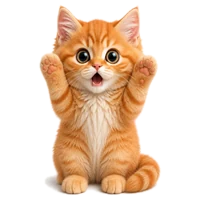
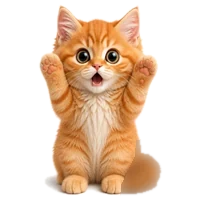
Piano: a living Tempo Cat and a stage-paced curtain
- Each kitten image is split into body and tail layers, so the tail sways, flicks, wags, puffs and lashes by mood
- Between notes it breathes, blinks (sometimes twice), and flicks its tail, tilts its head, glances or stretches
- A tap boops it (startled, tail puffed, Mew?), a stroke or long press pats it (eyes shut, purr, hearts); a right note still waves a paw
- Touching the cat keeps it awake
- Curtain gathers over 2.4 s with a soft settle; the loader shows until its line fills once
- New browser check: tap, stroke and blinks

Changed region(s): [[0.6, 0.69, 0.81, 0.99]]

diff --git a/src/components/Coach.tsx b/src/components/Coach.tsx
@@ -1,35 +1,55 @@
-import { useEffect, useRef, useState } from 'react';
-import type { CSSProperties } from 'react';
+import { useEffect, useId, useRef, useState } from 'react';
+import type { CSSProperties, PointerEvent as ReactPointerEvent } from 'react';
 import type { Mood } from '../piano/arranger';
 
-// The Learn coach "Tempo Cat": a cute ginger kitten (drawn after a reference photo the user chose: a wide fluffy
-// head, huge dark glossy eyes, a tiny pink nose, big pink ears) that is also a metronome, after the cat-shaped metronomes
-// teachers keep on the piano. It sits with a big round head (chibi proportions), and wears the metronome on its
-// chest: a white tempo scale whose needle ticks at your practice tempo, while its tail swings in time like a
-// pendulum, because keeping time is the coach's job. Moods: it swings along while waiting, waves a paw on a right
-// note, throws both paws up with the needle stopped when astonished, droops its ears and tail when upset, and
-// flattens its ears, flushes and shakes when cross.
-// The kitten is a set of generated images (Canva AI, made for this page): one per mood, the same kitten in each.
-// Looks without their own image borrow the nearest one (purring uses the happy face with its eyes closed; sleepy and
-// asleep use the calm one, dimmed; ashamed uses the upset one; grumpy the cross one).
-// The kitten's own states on top of the coach's moods: purring when petted, grumpy when poked too much, yawning
-// after a while with nothing played, asleep after longer, and startled awake by the next note.
-type Look = Mood | 'purr' | 'grumpy' | 'sleepy' | 'asleep';
+// The Learn coach "Tempo Cat": a ginger kitten that is also a metronome, after the cat-shaped metronomes teachers keep
+// on the piano. A thin needle on its chest ticks at your practice tempo.
+// The kitten is a set of generated images (Canva AI, made for this page): one per mood, the same kitten in each. Each
+// image is split in two layers, the body and the tail (with blurred fur under the tail), so the tail can move.
+// It behaves like a real cat between notes: it breathes, blinks every few seconds, and now and then flicks its tail,
+// tilts its head, glances to the side or stretches up. Looks without their own image borrow the nearest one.
+// What it does when you touch it, each different from its reaction to your playing:
+//   a tap (a boop on the nose): it startles, eyes wide, tail puffed up ("Mew?");
+//   a pat (stroke across it, or press and hold): it shuts its eyes and purrs, hearts float up, tail sways slowly;
+//   four taps within two seconds: grumpy.
+// A right note: it waves a paw, smiling. Then yawning after a while with nothing played, asleep after longer.
+type Look = Mood | 'purr' | 'boop' | 'grumpy' | 'sleepy' | 'asleep';
+type Habit = 'flick' | 'tilt' | 'glance' | 'stretch';
 const SLEEPY_AFTER = 12000;
 const ASLEEP_AFTER = 25000;
 
-const PHOTO: Record<Look, string> = {
+const PHOTO: Record<Look, keyof typeof TAIL> = {
   idle: 'idle', happy: 'happy', astonished: 'astonished', upset: 'upset', angry: 'angry',
-  purr: 'happy', grumpy: 'angry', sleepy: 'idle', asleep: 'idle', ashamed: 'upset',
+  purr: 'idle', boop: 'astonished', grumpy: 'angry', sleepy: 'idle', asleep: 'idle', ashamed: 'upset',
 };
+// Where each tail layer sits in the 200 x 200 image, and where it joins the body (the point it swings from).
+const TAIL = {
+  idle: { x: 131, y: 140, w: 53, h: 53, px: 133, py: 182 },
+  happy: { x: 132, y: 140, w: 44, h: 52, px: 134, py: 183 },
+  astonished: { x: 121, y: 140, w: 42, h: 56, px: 123, py: 188 },
+  upset: { x: 130, y: 135, w: 46, h: 51, px: 132, py: 178 },
+  angry: { x: 136, y: 140, w: 46, h: 52, px: 138, py: 183 },
+};
+// Eyes the lids can close over (only the faces with open, round eyes).
+const EYES: Partial<Record<keyof typeof TAIL, [number, number][]>> = {
+  idle: [[79.5, 66], [111, 69]],
+  upset: [[75, 67.5], [105, 67]],
+};
+const HABITS: [Habit, number, number][] = [['flick', 0.34, 1000], ['tilt', 0.24, 1700], ['glance', 0.24, 1900], ['stretch', 0.18, 1300]];
+const rand = (low: number, high: number) => low + Math.random() * (high - low);
 
 export default function Coach({ mood: coachMood, text: coachText, tick, tempo }: { mood: Mood; text: string; tick: number; tempo: number }) {
   const [rest, setRest] = useState<'awake' | 'sleepy' | 'asleep'>('awake');
   const [woke, setWoke] = useState(0); // bumps when a note startles it awake
-  const [pet, setPet] = useState<{ look: 'purr' | 'grumpy'; text: string; key: number } | null>(null);
+  const [pet, setPet] = useState<{ look: 'purr' | 'boop' | 'grumpy'; text: string; key: number } | null>(null);
+  const [blink, setBlink] = useState(false);
+  const [habit, setHabit] = useState<Habit | null>(null);
+  const [nudge, setNudge] = useState(0); // bumps on every touch, which also keeps it awake
   const pokes = useRef<number[]>([]);
+  const stroke = useRef<{ x: number; y: number; moved: number; at: number; patted: boolean; hold: number } | null>(null);
   const restRef = useRef(rest);
   restRef.current = rest;
+  const uid = useId().replace(/:/g, '');
   // Every coach message means a note was played: wake up (with a start if it was dozing) and restart the timers.
   useEffect(() => {
     if (restRef.current !== 'awake') setWoke((value) => value + 1);
@@ -40,31 +60,134 @@ export default function Coach({ mood: coachMood, text: coachText, tick, tempo }:
       clearTimeout(sleepy);
       clearTimeout(asleep);
     };
-  }, [tick]);
+  }, [tick, nudge]);
   useEffect(() => {
     if (!pet) return;
-    const done = setTimeout(() => setPet(null), pet.look === 'purr' ? 1800 : 2400);
+    const done = setTimeout(() => setPet(null), pet.look === 'purr' ? 2200 : pet.look === 'boop' ? 1300 : 2400);
     return () => clearTimeout(done);
   }, [pet]);
-  // Tap or click: a purr and hearts; four taps within two seconds make it grumpy. Tapping a sleeping kitten wakes it.
-  const touch = () => {
-    const now = performance.now();
-    pokes.current = [...pokes.current.filter((at) => now - at < 2000), now];
-    if (rest !== 'awake') {
+
+  const mood: Look = pet?.look ?? (rest === 'asleep' ? 'asleep' : rest === 'sleepy' ? 'sleepy' : coachMood);
+  const photo = PHOTO[mood] ?? 'idle';
+  const calm = mood === 'idle' || mood === 'upset' || mood === 'sleepy';
+
+  // Life between notes: a blink every 2.5 to 6 s (sometimes a double blink), and a habit every 2.5 to 5.5 s, only while
+  // the kitten is calm, so it never fights a reaction.
+  useEffect(() => {
+    if (!calm || typeof window === 'undefined' || window.matchMedia?.('(prefers-reduced-motion: reduce)').matches) return;
+    const timers: number[] = [];
+    const later = (ms: number, run: () => void) => timers.push(window.setTimeout(run, ms));
+    const blinkLoop = () => {
+      later(rand(2500, 6000), () => {
+        setBlink(true);
+        later(150, () => setBlink(false));
+        if (Math.random() < 0.25) later(330, () => { setBlink(true); later(140, () => setBlink(false)); });
+        blinkLoop();
+      });
+    };
+    const habitLoop = () => {
+      later(rand(2500, 5500), () => {
+        let pick = Math.random();
+        const [name, , length] = HABITS.find(([, weight]) => (pick -= weight) < 0) ?? HABITS[0];
+        setHabit(name);
+        later(length, () => setHabit(null));
+        habitLoop();
+      });
+    };
+    blinkLoop();
+    if (mood !== 'sleepy') habitLoop();
+    return () => {
+      timers.forEach((timer) => clearTimeout(timer));
+      setBlink(false);
+      setHabit(null);
+    };
+  }, [calm, mood]);
+
+  const wake = () => {
+    setNudge((value) => value + 1);
+    if (restRef.current !== 'awake') {
       setRest('awake');
       setWoke((value) => value + 1);
     }
-    if (pokes.current.length >= 4) setPet({ look: 'grumpy', text: 'Hey! Less poking, more playing.', key: now });
-    else setPet({ look: 'purr', text: ['Purrr…', 'Mrrow! Again?', 'Purr… now play me something.'][pokes.current.length - 1] ?? 'Purrr…', key: now });
   };
-  const mood: Look = pet?.look ?? (rest === 'asleep' ? 'asleep' : rest === 'sleepy' ? 'sleepy' : coachMood);
+  const boop = () => {
+    const now = performance.now();
+    pokes.current = [...pokes.current.filter((at) => now - at < 2000), now];
+    wake();
+    if (pokes.current.length >= 4) setPet({ look: 'grumpy', text: 'Hey! Less poking, more playing.', key: now });
+    else setPet({ look: 'boop', text: ['Mew? That was my nose.', 'Boop! Again?', 'Mrrp! Play me something.'][pokes.current.length - 1] ?? 'Mew?', key: now });
+  };
+  const purr = () => {
+    pokes.current = [];
+    wake();
+    const now = performance.now();
+    // Already purring: keep it going (a new object restarts the timer) and send up fresh hearts at most every 0.7 s.
+    setPet((current) => current?.look === 'purr' ? { ...current, key: now - current.key > 700 ? now : current.key } : { look: 'purr', text: ['Purrr…', 'Purr… right there.', 'Prrr… that is nice.'][Math.floor(Math.random() * 3)], key: now });
+  };
+  // A pat is a stroke of 24 px or more across the kitten, or a press held for 0.45 s. A short tap is a boop.
+  const down = (event: ReactPointerEvent<HTMLButtonElement>) => {
+    event.currentTarget.setPointerCapture?.(event.pointerId);
+    const hold = window.setTimeout(() => {
+      if (stroke.current && !stroke.current.patted) {
+        stroke.current.patted = true;
+        purr();
+      }
+    }, 450);
+    stroke.current = { x: event.clientX, y: event.clientY, moved: 0, at: performance.now(), patted: false, hold };
+  };
+  const move = (event: ReactPointerEvent<HTMLButtonElement>) => {
+    const current = stroke.current;
+    if (!current) return;
+    current.moved += Math.hypot(event.clientX - current.x, event.clientY - current.y);
+    current.x = event.clientX;
+    current.y = event.clientY;
+    if (current.moved >= 24) {
+      current.moved = 0;
+      current.patted = true;
+      purr(); // every stroke keeps it purring
+    }
+  };
+  const up = () => {
+    const current = stroke.current;
+    stroke.current = null;
+    if (!current) return;
+    clearTimeout(current.hold);
+    if (!current.patted) boop();
+  };
+
   const text = pet?.text ?? (rest === 'asleep' ? 'Zzz… play a note to wake me.' : rest === 'sleepy' ? '*yawn* … still there? Play the green key.' : coachText);
+  const tail = TAIL[photo];
+  const eyes = EYES[photo] ?? [];
+  const lids = mood === 'purr' || mood === 'asleep' ? 'shut' : mood === 'sleepy' ? 'heavy' : blink ? 'shut' : 'open';
   return (
     <div className={`pa-coach pa-coach-${mood}`} role="status" aria-live="polite" style={{ '--beat': `${(60 / Math.max(30, tempo)).toFixed(3)}s` } as CSSProperties}>
-      <button type="button" className="pa-coach-pet" onClick={touch} aria-label="Pet the cat">
+      <button
+        type="button"
+        className="pa-coach-pet"
+        onPointerDown={down}
+        onPointerMove={move}
+        onPointerUp={up}
+        onPointerCancel={() => { if (stroke.current) clearTimeout(stroke.current.hold); stroke.current = null; }}
+        onClick={(event) => event.detail === 0 && boop() /* keyboard: Enter or Space boops */}
+        aria-label="Pet the cat (tap to boop, stroke to pat)"
+      >
       <svg key={`w${woke}`} className={`pa-coach-figure co-photo ${woke ? 'co-woke' : ''}`} viewBox="0 0 200 200" aria-hidden="true">
+        <defs>
+          {eyes.map(([cx, cy], index) => <clipPath key={index} id={`${uid}-eye${index}`}><ellipse cx={cx} cy={cy} rx={8.2} ry={7.6} /></clipPath>)}
+          <linearGradient id={`${uid}-lid`} x1="0" y1="0" x2="0" y2="1"><stop offset="0" stopColor="#e3a56a" /><stop offset="1" stopColor="#c98a4f" /></linearGradient>
+        </defs>
+        <g className={`co-life ${habit ? `co-do-${habit}` : ''}`}>
         <g key={tick} className="co-act">
-          <image href={`/coach/${PHOTO[mood] ?? 'idle'}.webp`} x={0} y={0} width={200} height={200} className="co-img" />
+          <image href={`/coach/${photo}.webp`} x={0} y={0} width={200} height={200} className="co-img" />
+          <image href={`/coach/${photo}-tail.webp`} x={tail.x} y={tail.y} width={tail.w} height={tail.h} className="co-tailimg" style={{ transformOrigin: `${tail.px}px ${tail.py}px` }} />
+          {eyes.map(([cx, cy], index) => (
+            <g key={index} className={`co-lids co-lids-${lids}`}>
+              <g clipPath={`url(#${uid}-eye${index})`}>
+                <rect className="co-lid" x={cx - 9} y={cy - 8} width={18} height={16} fill={`url(#${uid}-lid)`} />
+              </g>
+              <path className="co-lash" d={`M${cx - 7} ${cy} Q${cx} ${cy + 3.4} ${cx + 7} ${cy}`} />
+            </g>
+          ))}
           {/* the metronome on its chest: a thin needle and gold weight ticking at the practice tempo */}
           <g className="co-pendulum">
             <line x1={100} y1={158} x2={100} y2={112} stroke="#6b5a4a" strokeWidth={2} strokeLinecap="round" opacity={0.75} />
@@ -85,13 +208,15 @@ export default function Coach({ mood: coachMood, text: coachText, tick, tempo }:
             </g>
           </g>
         </g>
-        {/* Zzz while asleep, hearts while purring */}
+        </g>
+        {/* Zzz while asleep, hearts while purring, a "?" when booped */}
         {mood === 'asleep' && ['Z', 'z', 'z'].map((letter, index) => (
           <text key={index} x={150 + index * 11} y={60 - index * 14} className="co-zzz" style={{ animationDelay: `${index * 0.6}s` } as CSSProperties}>{letter}</text>
         ))}
         {mood === 'purr' && [0, 1, 2].map((index) => (
           <path key={`${pet?.key}-${index}`} d="M0 3 C0 -1 5 -1 5 3 C5 -1 10 -1 10 3 C10 7 5 9 5 11 C5 9 0 7 0 3 Z" className="co-heart" transform={`translate(${50 + index * 45} ${28 + (index % 2) * 10}) scale(1.6)`} style={{ animationDelay: `${index * 0.15}s` } as CSSProperties} />
         ))}
+        {mood === 'boop' && <text key={pet?.key} x={150} y={40} className="co-what">?</text>}
       </svg>
       </button>
       <p className="pa-coach-bubble"><span className="pa-coach-text">{text}</span></p>

diff --git a/src/piano/piano.css b/src/piano/piano.css
@@ -1626,3 +1626,57 @@
 .pa-tear .pa-drape-right { animation: pa-drape-gather-right 1.3s cubic-bezier(0.55, 0, 0.25, 1) 0.05s forwards; }
 @keyframes pa-drape-gather-left { 0% { transform: none; opacity: 1; } 78% { transform: translateX(-42%) scaleX(0.16); opacity: 1; } 100% { transform: translateX(-47%) scaleX(0.06); opacity: 0; } }
 @keyframes pa-drape-gather-right { 0% { transform: scaleX(-1); opacity: 1; } 78% { transform: translateX(42%) scaleX(-0.16); opacity: 1; } 100% { transform: translateX(47%) scaleX(-0.06); opacity: 0; } }
+/* A stage-paced opening: the drapes gather over 2.4 s with a slow start and a soft settle (1.3 s read as rushed), the
+   valance lifts as they reach the sides, and the curtain layer ends at 2.6 s. */
+.pa-tear { animation: pa-tear-done 0s linear 2.6s forwards; }
+.pa-tear .pa-drape-left { animation: pa-drape-gather-left 2.4s cubic-bezier(0.45, 0, 0.2, 1) 0.05s forwards; }
+.pa-tear .pa-drape-right { animation: pa-drape-gather-right 2.4s cubic-bezier(0.45, 0, 0.2, 1) 0.05s forwards; }
+.pa-tear .pa-tear-valance { animation: pa-valance-up 0.6s cubic-bezier(0.4, 0, 0.6, 1) 1.85s forwards; }
+/* Tempo Cat, alive: it breathes, blinks, and now and then flicks its tail, tilts its head, glances aside or stretches.
+   (These rules are unlayered, so each mood's motion is restated here for the photo kitten.) */
+.pa-coach-pet { touch-action: none; user-select: none; -webkit-user-select: none; -webkit-touch-callout: none; }
+.co-photo .co-life { transform-box: view-box; transform-origin: 100px 192px; transition: transform 0.6s ease-in-out; }
+.co-photo .co-act { animation: co-breathe-photo 3.4s ease-in-out infinite; }
+@keyframes co-breathe-photo { 0%, 100% { transform: none; } 45% { transform: scale(1.008, 1.016); } }
+.co-photo .co-do-tilt { animation: co-tilt 1.7s ease-in-out; }
+.co-photo .co-do-glance { animation: co-glance 1.9s ease-in-out; }
+.co-photo .co-do-stretch { animation: co-stretch 1.3s ease-in-out; }
+@keyframes co-tilt { 0%, 100% { transform: none; } 25%, 70% { transform: rotate(-4.5deg); } }
+@keyframes co-glance { 0%, 100% { transform: none; } 20%, 45% { transform: translateX(2.5px) rotate(1.8deg); } 60%, 85% { transform: translateX(-2px) rotate(-1.4deg); } }
+@keyframes co-stretch { 0%, 100% { transform: none; } 40%, 60% { transform: scale(0.97, 1.06); } }
+/* the tail: a lazy sway when calm, a quick flick now and then, a wag on a right note, puffed up when booped, a slow
+   swish while purring, lashing when cross, and still when asleep or upset */
+.co-tailimg { transform-box: view-box; animation: co-tail-laze 3.8s ease-in-out infinite alternate; }
+.co-do-flick .co-tailimg { animation: co-tail-flick 1s ease-in-out; }
+.pa-coach-happy .co-tailimg { animation: co-tail-wag 0.32s ease-in-out infinite alternate; }
+.pa-coach-purr .co-tailimg { animation: co-tail-laze 1.5s ease-in-out infinite alternate; }
+.pa-coach-boop .co-tailimg, .pa-coach-astonished .co-tailimg { animation: co-tail-puff 0.22s ease-out forwards; }
+.pa-coach-angry .co-tailimg, .pa-coach-grumpy .co-tailimg { animation: co-tail-wag 0.16s linear infinite alternate; }
+.pa-coach-upset .co-tailimg, .pa-coach-ashamed .co-tailimg { animation: none; transform: rotate(4deg); }
+.pa-coach-asleep .co-tailimg { animation: none; transform: none; }
+.pa-coach-sleepy .co-tailimg { animation-duration: 6s; }
+@keyframes co-tail-laze { from { transform: rotate(1.5deg); } to { transform: rotate(-4deg); } }
+@keyframes co-tail-flick { 0%, 100% { transform: none; } 22% { transform: rotate(-13deg); } 45% { transform: rotate(3deg); } 66% { transform: rotate(-7deg); } }
+@keyframes co-tail-wag { from { transform: rotate(2deg); } to { transform: rotate(-9deg); } }
+@keyframes co-tail-puff { to { transform: rotate(-12deg) scale(1.08); } }
+/* eyelids: closed for a blink, while purring and asleep, half shut when sleepy */
+.co-lid { transform-box: fill-box; transform-origin: 50% 0; transform: scaleY(0); transition: transform 70ms ease-in; }
+.co-lids-shut .co-lid { transform: scaleY(1); }
+.co-lids-heavy .co-lid { transform: scaleY(0.5); transition-duration: 0.6s; }
+.co-lash { fill: none; stroke: #3a2418; stroke-width: 1.3; stroke-linecap: round; opacity: 0; transition: opacity 70ms; }
+.co-lids-shut .co-lash { opacity: 0.85; }
+.pa-coach-sleepy .co-photo :is(.co-img, .co-tailimg), .pa-coach-asleep .co-photo :is(.co-img, .co-tailimg) { filter: brightness(0.82) saturate(0.85); }
+/* each mood's body motion for the photo kitten */
+.pa-coach-happy .co-photo .co-act { animation: co-jump 0.45s cubic-bezier(0.3, 1.5, 0.5, 1); }
+.pa-coach-astonished .co-photo .co-act { animation: co-jump 0.5s ease-out; }
+.pa-coach-upset .co-photo .co-act, .pa-coach-ashamed .co-photo .co-act { animation: co-slump 0.5s ease-out forwards; }
+.pa-coach-angry .co-photo .co-act, .pa-coach-grumpy .co-photo .co-act { animation: co-stamp 0.45s ease-in-out 2; }
+.pa-coach-purr .co-photo .co-act { animation: co-purr 0.12s linear infinite alternate; }
+.pa-coach-asleep .co-photo .co-act { animation: co-breathe 3s ease-in-out infinite; }
+.pa-coach-boop .co-photo .co-act { animation: co-boop 0.45s cubic-bezier(0.3, 1.6, 0.5, 1); }
+@keyframes co-boop { 0% { transform: none; } 30% { transform: translateY(-6px) scale(0.97, 1.04) rotate(-2deg); } 100% { transform: none; } }
+.pa-coach-boop .co-pendulum { animation-play-state: paused; }
+.pa-coach-boop .pa-coach-bubble { background: #eef7ff; }
+.co-what { font: 800 26px system-ui, sans-serif; fill: #59a8ff; stroke: #fff; stroke-width: 1.5; paint-order: stroke; animation: co-float 1.2s ease-out forwards; }
+@media (prefers-reduced-motion: reduce) { .co-photo .co-act, .co-photo .co-life, .co-tailimg { animation: none !important; } }
+.pa-coach-sleepy .co-photo .co-act { animation: co-yawn 2.6s ease-in-out infinite; }

diff --git a/src/components/PianoRoom.tsx b/src/components/PianoRoom.tsx
@@ -36,6 +36,8 @@ function PianoIcon({ open }: { open: boolean }) {
   );
 }
 
+let openedAt = 0; // when the curtain was last opened, so the loader shows for a minimum time
+
 export default function PianoRoom() {
   const open = useSyncExternalStore(pianoStore.subscribe, pianoStore.get, () => false);
 
@@ -95,7 +97,9 @@ export default function PianoRoom() {
       if (calm >= 3 || now - started > 2500) {
         // A beat more for the graphics chip to finish drawing the stage behind the curtain (on a big monitor its first
         // full draw took one 400 ms frame when the curtain started straight away).
-        setTimeout(() => (idle ? idle(go, { timeout: 200 }) : go()), 250);
+        // The loader also stays until its hairline has filled once (about 1.7 s), so on a fast load it reads as a
+        // short tuning moment, not a flash.
+        setTimeout(() => (idle ? idle(go, { timeout: 200 }) : go()), Math.max(250, openedAt + 1700 - performance.now()));
       } else requestAnimationFrame(watch);
     };
     requestAnimationFrame(watch);
@@ -131,7 +135,10 @@ export default function PianoRoom() {
             void loadInstrument();
           }}
           onClick={() => {
-            if (!open) primeAudio(); // start phone audio inside this tap, so the piano can sound at once
+            if (!open) {
+              primeAudio(); // start phone audio inside this tap, so the piano can sound at once
+              openedAt = performance.now();
+            }
             pianoStore.set(!open);
           }}
           className="pa-handle pa-card-button"

diff --git a/src/components/PianoInstrument.tsx b/src/components/PianoInstrument.tsx
@@ -612,7 +612,7 @@ function PianoInstrument({ onReady }: { onReady?: () => void }) {
       onReady?.();
     };
     const fallback = setTimeout(ready, 1500);
-    const curtainGo = () => arranger.pauseLoading(1900); // the curtain moves for 1.75 s
+    const curtainGo = () => arranger.pauseLoading(2800); // the curtain moves for 2.6 s
     window.addEventListener('pa-curtain-go', curtainGo);
     void arranger.loadFirst('salamander', 3).then(ready);
     arranger.chime();
